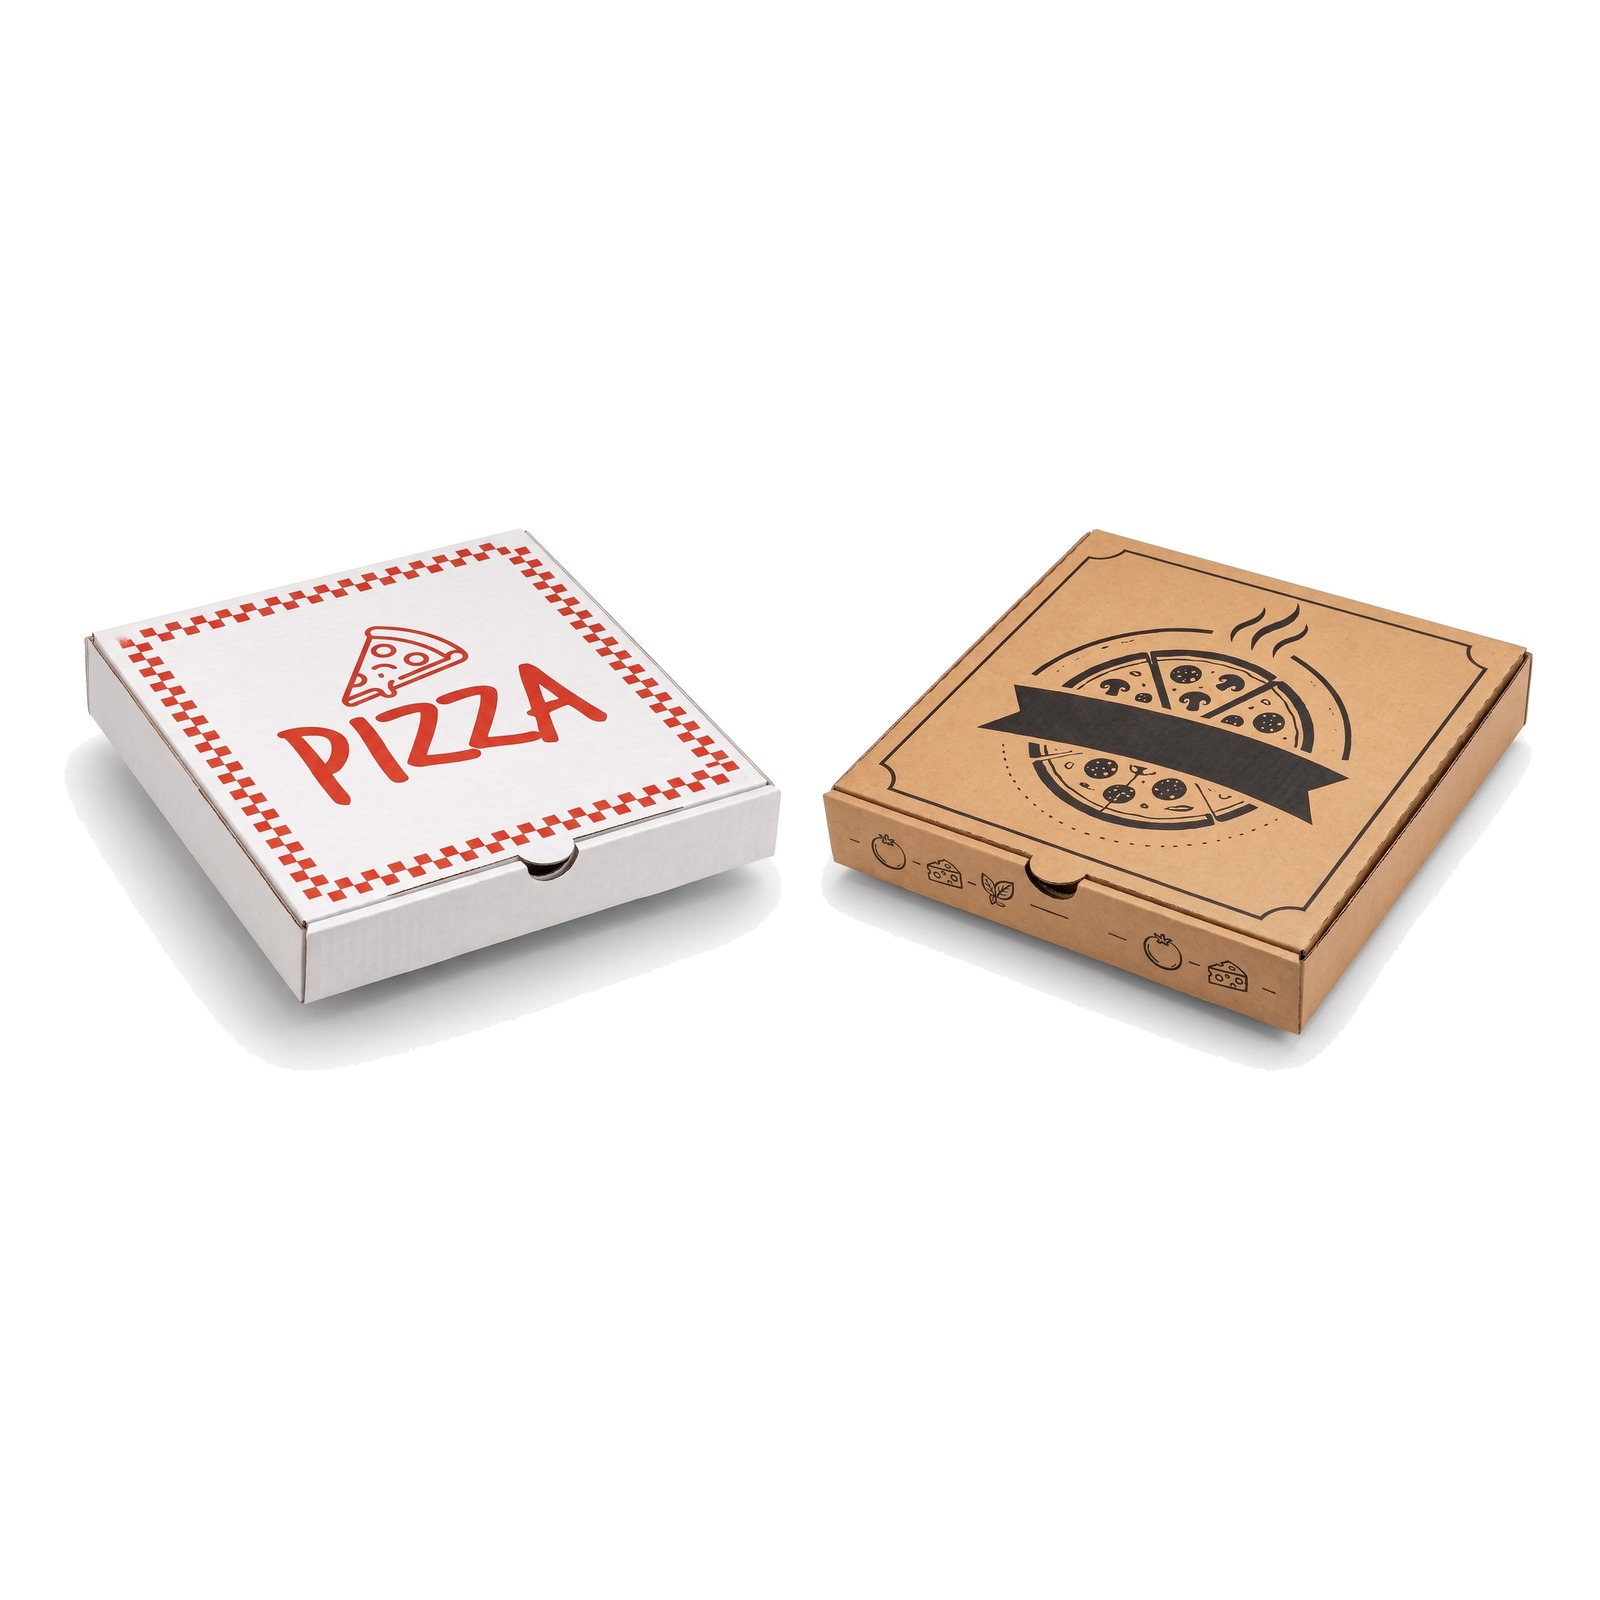
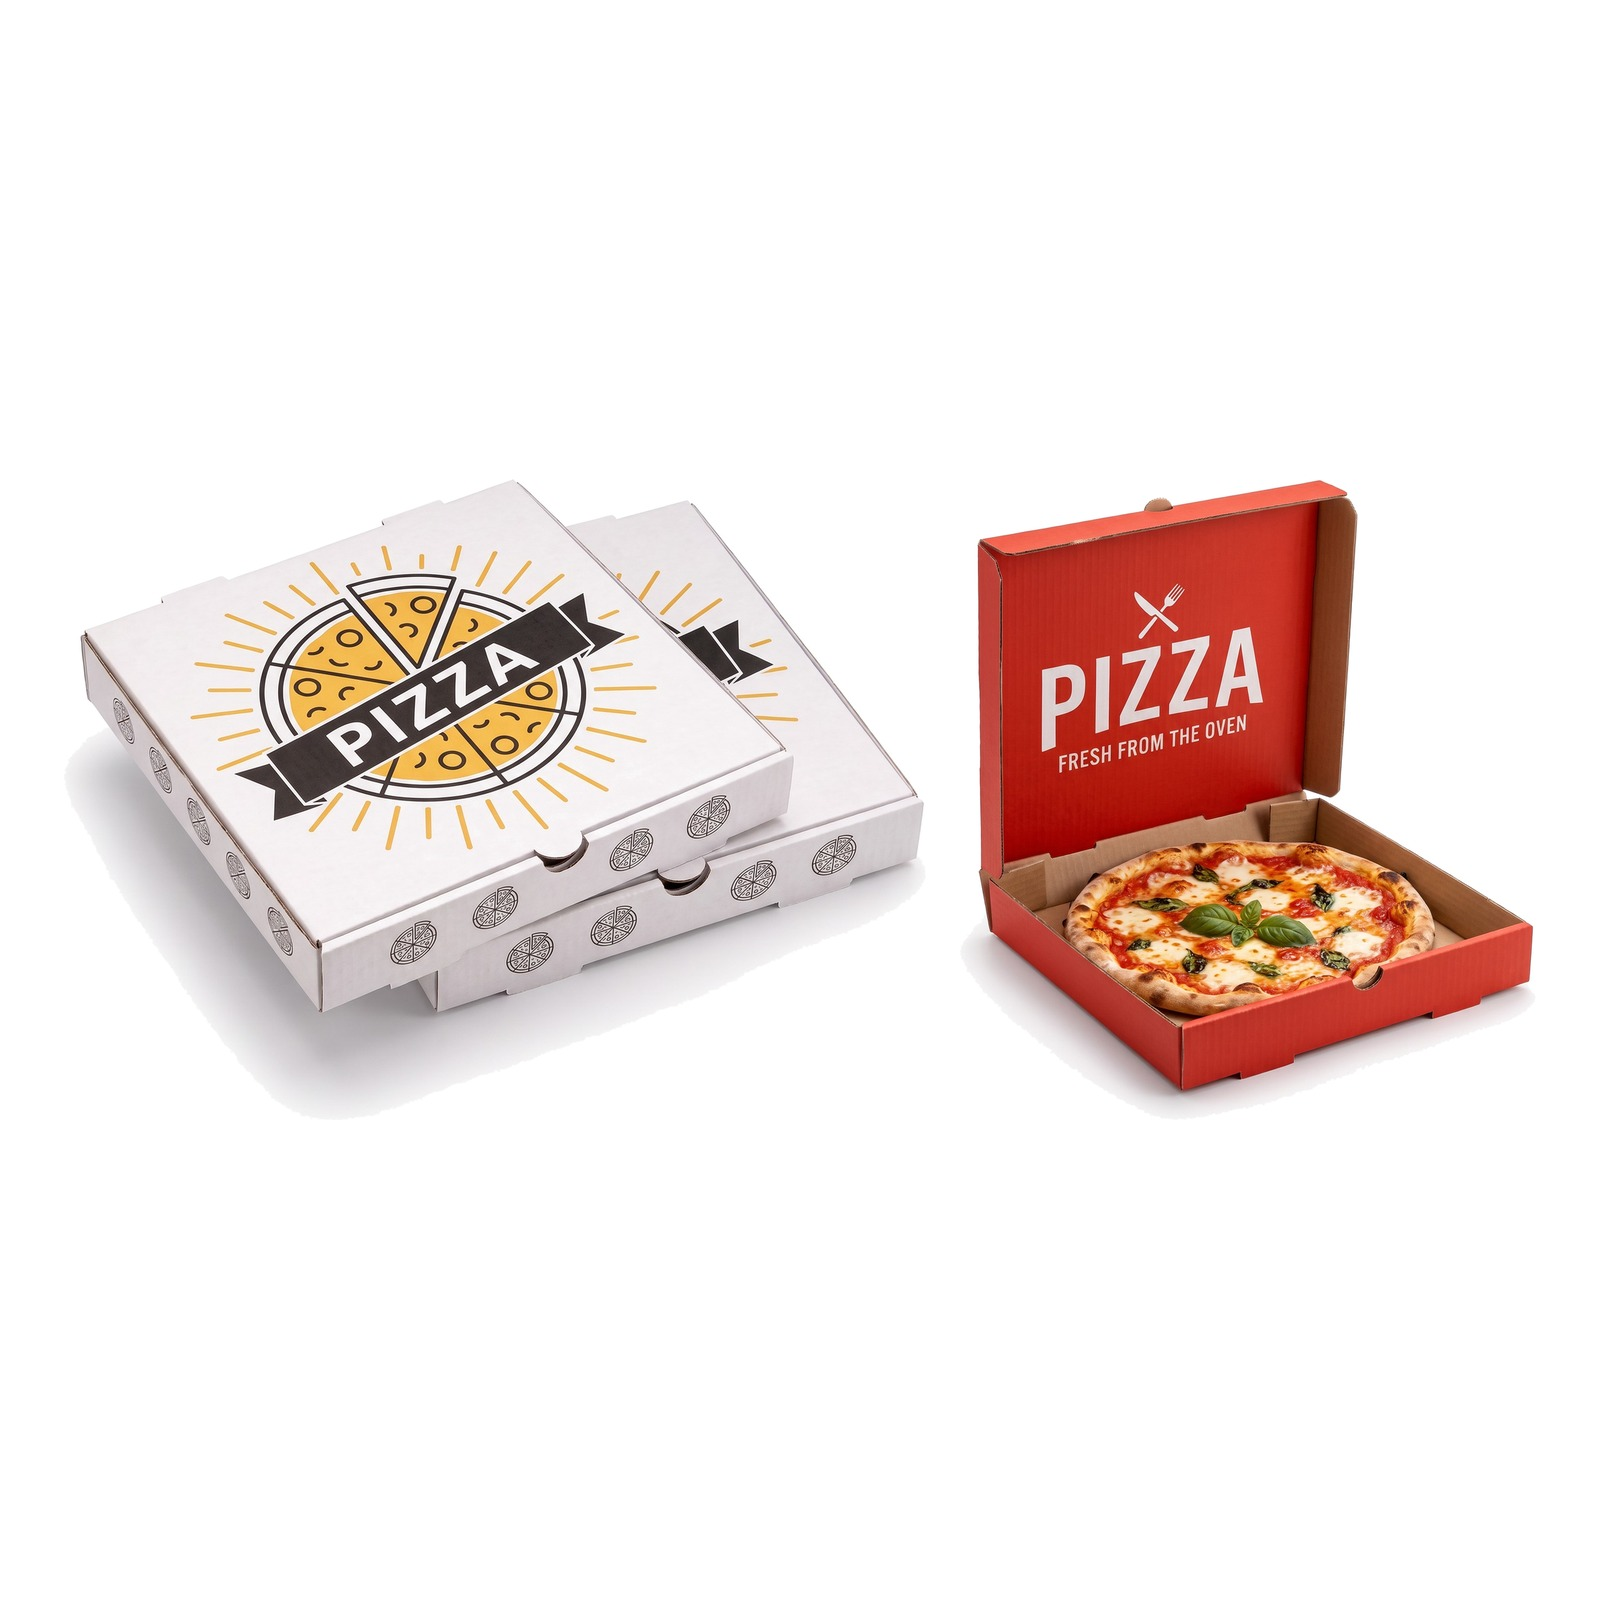
Pizzakartons: neue Bilder im Stil der Vorlagen des Inhabers (Zwischenstand)
Claude-Session: https://claude.ai/code/session_019HkPKDAwefi4jik8DbuM5U

Changed region(s): [[0.0312, 0.2812, 0.9688, 0.7188]]

diff --git a/produkte/pizzakartons/index.html b/produkte/pizzakartons/index.html
@@ -76,18 +76,14 @@
     <div class="pf-shot">
       <div class="pf-design-pick" data-designs>
       <div class="pf-designs" tabindex="0" role="region" aria-roledescription="Bildergalerie" aria-label="Echte Kundendesigns, zum Wechseln wischen">
-        <img class="pf-design is-on" src="/Bilder/web/pizzakarton-design-weiss-rot-960.webp" srcset="/Bilder/web/pizzakarton-design-weiss-rot-480.webp 480w, /Bilder/web/pizzakarton-design-weiss-rot-960.webp 960w" sizes="(max-width: 980px) 90vw, 560px" alt="Pizzakartons mit Logo im Design von Weiß, 1-farbig" width="960" height="960" draggable="false" fetchpriority="high">
-        <img class="pf-design" src="/Bilder/web/pizzakarton-design-braun-schwarz-960.webp" srcset="/Bilder/web/pizzakarton-design-braun-schwarz-480.webp 480w, /Bilder/web/pizzakarton-design-braun-schwarz-960.webp 960w" sizes="(max-width: 980px) 90vw, 560px" alt="Pizzakartons mit Logo im Design von Braun, 1-farbig" width="960" height="960" draggable="false" decoding="async">
-        <img class="pf-design" src="/Bilder/web/pizzakarton-design-weiss-rot-gruen-960.webp" srcset="/Bilder/web/pizzakarton-design-weiss-rot-gruen-480.webp 480w, /Bilder/web/pizzakarton-design-weiss-rot-gruen-960.webp 960w" sizes="(max-width: 980px) 90vw, 560px" alt="Pizzakartons mit Logo im Design von Weiß, 2-farbig" width="960" height="960" draggable="false" decoding="async">
-        <img class="pf-design" src="/Bilder/web/pizzakarton-design-braun-schwarz-rot-960.webp" srcset="/Bilder/web/pizzakarton-design-braun-schwarz-rot-480.webp 480w, /Bilder/web/pizzakarton-design-braun-schwarz-rot-960.webp 960w" sizes="(max-width: 980px) 90vw, 560px" alt="Pizzakartons mit Logo im Design von Braun, 2-farbig" width="960" height="960" draggable="false" decoding="async">
+        <img class="pf-design is-on" src="/Bilder/web/pizzakarton-design-gelb-schwarz-960.webp" srcset="/Bilder/web/pizzakarton-design-gelb-schwarz-480.webp 480w, /Bilder/web/pizzakarton-design-gelb-schwarz-960.webp 960w" sizes="(max-width: 980px) 90vw, 560px" alt="Pizzakartons mit Logo im Design von Weiß, 2-farbig" width="960" height="960" draggable="false" fetchpriority="high">
+        <img class="pf-design" src="/Bilder/web/pizzakarton-design-rot-offen-960.webp" srcset="/Bilder/web/pizzakarton-design-rot-offen-480.webp 480w, /Bilder/web/pizzakarton-design-rot-offen-960.webp 960w" sizes="(max-width: 980px) 90vw, 560px" alt="Pizzakartons mit Logo im Design von Rot, 1-farbig" width="960" height="960" draggable="false" decoding="async">
       </div>
       <div class="pf-swatches" role="group" aria-label="Kundendesign wählen">
-        <button type="button" class="pf-swatch is-on" style="--c:#D3322B" data-name="Weiß, 1-farbig" aria-pressed="true" aria-label="Design von Weiß, 1-farbig zeigen"></button>
-        <button type="button" class="pf-swatch" style="--c:#2B2B2B" data-name="Braun, 1-farbig" aria-pressed="false" aria-label="Design von Braun, 1-farbig zeigen"></button>
-        <button type="button" class="pf-swatch" style="--c:#2F6B3B" data-name="Weiß, 2-farbig" aria-pressed="false" aria-label="Design von Weiß, 2-farbig zeigen"></button>
-        <button type="button" class="pf-swatch" style="--c:#B88A5A" data-name="Braun, 2-farbig" aria-pressed="false" aria-label="Design von Braun, 2-farbig zeigen"></button>
+        <button type="button" class="pf-swatch is-on" style="--c:#F2B630" data-name="Weiß, 2-farbig" aria-pressed="true" aria-label="Design von Weiß, 2-farbig zeigen"></button>
+        <button type="button" class="pf-swatch" style="--c:#D9302C" data-name="Rot, 1-farbig" aria-pressed="false" aria-label="Design von Rot, 1-farbig zeigen"></button>
       </div>
-      <p class="pf-design-cap">Gestaltungsbeispiel: <b data-design-name aria-live="polite">Weiß, 1-farbig</b><span>Dein Pizzakarton bekommt dein Logo in deinen Farben.</span></p>
+      <p class="pf-design-cap">Gestaltungsbeispiel: <b data-design-name aria-live="polite">Weiß, 2-farbig</b><span>Dein Pizzakarton bekommt dein Logo in deinen Farben.</span></p>
       </div>
     </div>
   </div>
@@ -347,7 +343,7 @@
   </div>
 </div>
 
-<script type="application/json" id="pf-data">{"product":{"slug":"pizzakartons","url":"/produkte/pizzakartons/","name":"Pizzakartons mit Logo","image":"/Bilder/web/pizzakartons-karte-960.webp","unit":"Stück","qtyKey":"menge","catalog":{"title":"Pizzakartons","tags":["papierboxen"]},"badge":"Neu","branchen":["doener","bowls"],"related":["servietten","feuchttuecher","tueten","salatschalen"],"options":[{"key":"groesse","label":"Größe","choices":[{"id":"20x20","label":"20 × 20 cm","detail":"Höhe 4 cm"},{"id":"24x24","label":"24 × 24 cm","detail":"Höhe ca. 3,5–4 cm"},{"id":"26x26","label":"26 × 26 cm","detail":"Höhe ca. 3,5–4 cm"},{"id":"28x28","label":"28 × 28 cm","detail":"Höhe 4 cm"},{"id":"30x30","label":"30 × 30 cm","detail":"Höhe 4 cm"},{"id":"32x32","label":"32 × 32 cm","detail":"Höhe 4 cm"},{"id":"34x34","label":"34 × 34 cm","detail":"Höhe 4 cm"},{"id":"36x36","label":"36 × 36 cm","detail":"Höhe 4 cm"},{"id":"40x40","label":"40 × 40 cm","detail":"Höhe 4 cm"},{"id":"42x42","label":"42 × 42 cm","detail":"Höhe 4 cm"},{"id":"45x45","label":"45 × 45 cm","detail":"Höhe 4 cm"},{"id":"50x50","label":"50 × 50 cm","detail":"Höhe 5 cm"}],"note":"Weitere Maße und Sonderhöhen auf Anfrage"},{"key":"druck","label":"Druck","choices":[{"id":"1","label":"1-farbig","detail":"Flexodruck"},{"id":"2","label":"2-farbig","detail":"Flexodruck"}],"note":"Karton weiß oder braun – die genaue Ausführung bestätigen wir vor dem Auftrag"},{"key":"menge","label":"Menge","choices":[{"id":"1000","label":"1.000 Stück"},{"id":"3000","label":"3.000 Stück"},{"id":"5000","label":"5.000 Stück","tip":true},{"id":"10000","label":"10.000 Stück"}],"note":"Größere Mengen auf Anfrage · einmalige Klischeekosten je nach Motiv separat"}],"pricing":{"basis":"unit","by":["groesse","druck","menge"],"table":{"20x20":{"1":{"1000":4800,"3000":2780,"5000":2380,"10000":2210},"2":{"1000":5210,"3000":3190,"5000":2790,"10000":2620}},"24x24":{"1":{"1000":4780,"3000":2780,"5000":2430,"10000":2250},"2":{"1000":5370,"3000":2980,"5000":2630,"10000":2450}},"26x26":{"1":{"1000":4820,"3000":2820,"5000":2470,"10000":2320},"2":{"1000":5440,"3000":3020,"5000":2670,"10000":2520}},"28x28":{"1":{"1000":5210,"3000":3150,"5000":2800,"10000":2650},"2":{"1000":5620,"3000":3560,"5000":3210,"10000":3060}},"30x30":{"1":{"1000":4940,"3000":2940,"5000":2640,"10000":2460},"2":{"1000":5780,"3000":3140,"5000":2840,"10000":2660}},"32x32":{"1":{"1000":5020,"3000":3020,"5000":2720,"10000":2540},"2":{"1000":5850,"3000":3220,"5000":2920,"10000":2740}},"34x34":{"1":{"1000":5210,"3000":3210,"5000":2910,"10000":2760},"2":{"1000":6010,"3000":3410,"5000":3110,"10000":2960}},"36x36":{"1":{"1000":5300,"3000":3300,"5000":3050,"10000":2880},"2":{"1000":6190,"3000":3500,"5000":3250,"10000":3080}},"40x40":{"1":{"1000":5700,"3000":4110,"5000":3840,"10000":3690},"2":{"1000":6450,"3000":4490,"5000":4200,"10000":4050}},"42x42":{"1":{"1000":6220,"3000":4380,"5000":4080,"10000":3900},"2":{"1000":6630,"3000":4790,"5000":4490,"10000":4310}},"45x45":{"1":{"1000":6240,"3000":4700,"5000":4450,"10000":4270},"2":{"1000":6970,"3000":4940,"5000":4690,"10000":4540}},"50x50":{"1":{"1000":7040,"3000":5230,"5000":4950,"10000":4800},"2":{"1000":7450,"3000":5650,"5000":5360,"10000":5210}}},"qty":{"by":"menge"}},"rechner":{"frage":"Wie viele Pizzen verkaufst du am Tag?","start":60},"designs":{"wort":"Pizzakarton","artikel":"Dein","titel":"Gestaltungsbeispiel","bilder":[{"file":"pizzakarton-design-weiss-rot","name":"Weiß, 1-farbig","color":"#D3322B"},{"file":"pizzakarton-design-braun-schwarz","name":"Braun, 1-farbig","color":"#2B2B2B"},{"file":"pizzakarton-design-weiss-rot-gruen","name":"Weiß, 2-farbig","color":"#2F6B3B"},{"file":"pizzakarton-design-braun-schwarz-rot","name":"Braun, 2-farbig","color":"#B88A5A"}]}},"catalog":[{"slug":"tueten","url":"/produkte/tueten/","title":"Papiertüten","img":"/Bilder/web/tueten-karte-480.webp","from":"ab 12,00 ct"},{"slug":"sleeves","url":"/produkte/sleeves/","title":"Kaffeebecher Sleeves","img":"/Bilder/web/sleeves-shop-480.webp","from":"ab 2,59 ct"},{"slug":"burgerbox","url":"/produkte/burgerbox/","title":"Burgerbox","img":"/Bilder/web/burgerbox-karte-480.webp","from":"ab 11,50 ct"},{"slug":"pizzakartons","url":"/produkte/pizzakartons/","title":"Pizzakartons","img":"/Bilder/web/pizzakartons-karte-480.webp","from":"ab 22,10 ct"},{"slug":"einschlagpapier","url":"/produkte/einschlagpapier/","title":"Einschlagpapier","img":"/Bilder/web/tablettpapier-480.webp","from":"ab 5,20 €/kg"},{"slug":"broetchentueten","url":"/produkte/broetchentueten/","title":"Brötchentüten","img":"/Bilder/web/broetchentueten-480.webp","from":"ab 4,68 €/kg"},{"slug":"doenertueten","url":"/produkte/doenertueten/","title":"Dönertüten","img":"/Bilder/web/doenertueten-480.webp","from":"ab 5,20 €/kg"},{"slug":"kuru-pasta","url":"/produkte/kuru-pasta/","title":"Kuru Pasta Kutusu","img":"/Bilder/web/kurupasta-480.webp","from":"ab 11,10 ct"},{"slug":"salatschalen","url":"/produkte/salatschalen/","title":"Salatschalen","img":"/Bilder/web/salatschalen-karte-480.webp","from":"ab 14,15 ct"},{"slug":"baklava-kutusu","url":"/produkte/baklava-kutusu/","title":"Baklava Kutusu","img":"/Bilder/web/baklava-480.webp","from":"ab 8,10 ct"},{"slug":"kuchenboxen","url":"/produkte/kuchenboxen/","title":"Kuchenboxen","img":"/Bilder/web/kuchenbox-480.webp","from":"ab 16,00 ct"},{"slug":"pommesschuetten","url":"/produkte/pommesschuetten/","title":"Pommesschütten","img":"/Bilder/web/pommes-480.webp","from":"ab 5,92 ct"},{"slug":"fc-box","url":"/produkte/fc-box/","title":"FC Box","img":"/Bilder/web/fcbox-480.webp","from":"ab 9,20 ct"},{"slug":"doenerboxen","url":"/produkte/doenerboxen/","title":"Dönerboxen","img":"/Bilder/web/doenerboxen-karte-480.webp","from":"ab 8,29 ct"},{"slug":"takeaway-boxen","url":"/produkte/takeaway-boxen/","title":"Take-away Boxen","img":"/Bilder/web/takeawaybox-480.webp","from":"ab 15,81 ct"},{"slug":"kaffeebecher-single-wall","url":"/produkte/kaffeebecher-single-wall/","title":"Kaffeebecher Single Wall","img":"/Bilder/web/kaffeebecher-sw-480.webp","from":"ab 6,67 ct"},{"slug":"kaffeebecher-double-wall","url":"/produkte/kaffeebecher-double-wall/","title":"Kaffeebecher Double Wall","img":"/Bilder/web/kaffeebecher-dw-480.webp","from":"ab 10,15 ct"},{"slug":"clear-cups","url":"/produkte/clear-cups/","title":"Clear Cups","img":"/Bilder/web/clear-cups-480.webp","from":"ab 13,50 ct"},{"slug":"bubble-tea-cups","url":"/produkte/bubble-tea-cups/","title":"Bubble Tea Cups","img":"/Bilder/web/bubble-tea-cups-480.webp","from":"ab 17,30 ct"},{"slug":"servietten","url":"/produkte/servietten/","title":"Servietten mit Logo","img":"/Bilder/web/servietten-480.webp","from":"ab 1,95 ct"},{"slug":"feuchttuecher","url":"/produkte/feuchttuecher/","title":"Feuchttücher","img":"/Bilder/web/feuchttuecher-480.webp","from":"ab 2,90 ct"}]}</script>
+<script type="application/json" id="pf-data">{"product":{"slug":"pizzakartons","url":"/produkte/pizzakartons/","name":"Pizzakartons mit Logo","image":"/Bilder/web/pizzakartons-karte-960.webp","unit":"Stück","qtyKey":"menge","catalog":{"title":"Pizzakartons","tags":["papierboxen"]},"badge":"Neu","branchen":["doener","bowls"],"related":["servietten","feuchttuecher","tueten","salatschalen"],"options":[{"key":"groesse","label":"Größe","choices":[{"id":"20x20","label":"20 × 20 cm","detail":"Höhe 4 cm"},{"id":"24x24","label":"24 × 24 cm","detail":"Höhe ca. 3,5–4 cm"},{"id":"26x26","label":"26 × 26 cm","detail":"Höhe ca. 3,5–4 cm"},{"id":"28x28","label":"28 × 28 cm","detail":"Höhe 4 cm"},{"id":"30x30","label":"30 × 30 cm","detail":"Höhe 4 cm"},{"id":"32x32","label":"32 × 32 cm","detail":"Höhe 4 cm"},{"id":"34x34","label":"34 × 34 cm","detail":"Höhe 4 cm"},{"id":"36x36","label":"36 × 36 cm","detail":"Höhe 4 cm"},{"id":"40x40","label":"40 × 40 cm","detail":"Höhe 4 cm"},{"id":"42x42","label":"42 × 42 cm","detail":"Höhe 4 cm"},{"id":"45x45","label":"45 × 45 cm","detail":"Höhe 4 cm"},{"id":"50x50","label":"50 × 50 cm","detail":"Höhe 5 cm"}],"note":"Weitere Maße und Sonderhöhen auf Anfrage"},{"key":"druck","label":"Druck","choices":[{"id":"1","label":"1-farbig","detail":"Flexodruck"},{"id":"2","label":"2-farbig","detail":"Flexodruck"}],"note":"Karton weiß oder braun – die genaue Ausführung bestätigen wir vor dem Auftrag"},{"key":"menge","label":"Menge","choices":[{"id":"1000","label":"1.000 Stück"},{"id":"3000","label":"3.000 Stück"},{"id":"5000","label":"5.000 Stück","tip":true},{"id":"10000","label":"10.000 Stück"}],"note":"Größere Mengen auf Anfrage · einmalige Klischeekosten je nach Motiv separat"}],"pricing":{"basis":"unit","by":["groesse","druck","menge"],"table":{"20x20":{"1":{"1000":4800,"3000":2780,"5000":2380,"10000":2210},"2":{"1000":5210,"3000":3190,"5000":2790,"10000":2620}},"24x24":{"1":{"1000":4780,"3000":2780,"5000":2430,"10000":2250},"2":{"1000":5370,"3000":2980,"5000":2630,"10000":2450}},"26x26":{"1":{"1000":4820,"3000":2820,"5000":2470,"10000":2320},"2":{"1000":5440,"3000":3020,"5000":2670,"10000":2520}},"28x28":{"1":{"1000":5210,"3000":3150,"5000":2800,"10000":2650},"2":{"1000":5620,"3000":3560,"5000":3210,"10000":3060}},"30x30":{"1":{"1000":4940,"3000":2940,"5000":2640,"10000":2460},"2":{"1000":5780,"3000":3140,"5000":2840,"10000":2660}},"32x32":{"1":{"1000":5020,"3000":3020,"5000":2720,"10000":2540},"2":{"1000":5850,"3000":3220,"5000":2920,"10000":2740}},"34x34":{"1":{"1000":5210,"3000":3210,"5000":2910,"10000":2760},"2":{"1000":6010,"3000":3410,"5000":3110,"10000":2960}},"36x36":{"1":{"1000":5300,"3000":3300,"5000":3050,"10000":2880},"2":{"1000":6190,"3000":3500,"5000":3250,"10000":3080}},"40x40":{"1":{"1000":5700,"3000":4110,"5000":3840,"10000":3690},"2":{"1000":6450,"3000":4490,"5000":4200,"10000":4050}},"42x42":{"1":{"1000":6220,"3000":4380,"5000":4080,"10000":3900},"2":{"1000":6630,"3000":4790,"5000":4490,"10000":4310}},"45x45":{"1":{"1000":6240,"3000":4700,"5000":4450,"10000":4270},"2":{"1000":6970,"3000":4940,"5000":4690,"10000":4540}},"50x50":{"1":{"1000":7040,"3000":5230,"5000":4950,"10000":4800},"2":{"1000":7450,"3000":5650,"5000":5360,"10000":5210}}},"qty":{"by":"menge"}},"rechner":{"frage":"Wie viele Pizzen verkaufst du am Tag?","start":60},"designs":{"wort":"Pizzakarton","artikel":"Dein","titel":"Gestaltungsbeispiel","bilder":[{"file":"pizzakarton-design-gelb-schwarz","name":"Weiß, 2-farbig","color":"#F2B630"},{"file":"pizzakarton-design-rot-offen","name":"Rot, 1-farbig","color":"#D9302C"}]}},"catalog":[{"slug":"tueten","url":"/produkte/tueten/","title":"Papiertüten","img":"/Bilder/web/tueten-karte-480.webp","from":"ab 12,00 ct"},{"slug":"sleeves","url":"/produkte/sleeves/","title":"Kaffeebecher Sleeves","img":"/Bilder/web/sleeves-shop-480.webp","from":"ab 2,59 ct"},{"slug":"burgerbox","url":"/produkte/burgerbox/","title":"Burgerbox","img":"/Bilder/web/burgerbox-karte-480.webp","from":"ab 11,50 ct"},{"slug":"pizzakartons","url":"/produkte/pizzakartons/","title":"Pizzakartons","img":"/Bilder/web/pizzakartons-karte-480.webp","from":"ab 22,10 ct"},{"slug":"einschlagpapier","url":"/produkte/einschlagpapier/","title":"Einschlagpapier","img":"/Bilder/web/tablettpapier-480.webp","from":"ab 5,20 €/kg"},{"slug":"broetchentueten","url":"/produkte/broetchentueten/","title":"Brötchentüten","img":"/Bilder/web/broetchentueten-480.webp","from":"ab 4,68 €/kg"},{"slug":"doenertueten","url":"/produkte/doenertueten/","title":"Dönertüten","img":"/Bilder/web/doenertueten-480.webp","from":"ab 5,20 €/kg"},{"slug":"kuru-pasta","url":"/produkte/kuru-pasta/","title":"Kuru Pasta Kutusu","img":"/Bilder/web/kurupasta-480.webp","from":"ab 11,10 ct"},{"slug":"salatschalen","url":"/produkte/salatschalen/","title":"Salatschalen","img":"/Bilder/web/salatschalen-karte-480.webp","from":"ab 14,15 ct"},{"slug":"baklava-kutusu","url":"/produkte/baklava-kutusu/","title":"Baklava Kutusu","img":"/Bilder/web/baklava-480.webp","from":"ab 8,10 ct"},{"slug":"kuchenboxen","url":"/produkte/kuchenboxen/","title":"Kuchenboxen","img":"/Bilder/web/kuchenbox-480.webp","from":"ab 16,00 ct"},{"slug":"pommesschuetten","url":"/produkte/pommesschuetten/","title":"Pommesschütten","img":"/Bilder/web/pommes-480.webp","from":"ab 5,92 ct"},{"slug":"fc-box","url":"/produkte/fc-box/","title":"FC Box","img":"/Bilder/web/fcbox-480.webp","from":"ab 9,20 ct"},{"slug":"doenerboxen","url":"/produkte/doenerboxen/","title":"Dönerboxen","img":"/Bilder/web/doenerboxen-karte-480.webp","from":"ab 8,29 ct"},{"slug":"takeaway-boxen","url":"/produkte/takeaway-boxen/","title":"Take-away Boxen","img":"/Bilder/web/takeawaybox-480.webp","from":"ab 15,81 ct"},{"slug":"kaffeebecher-single-wall","url":"/produkte/kaffeebecher-single-wall/","title":"Kaffeebecher Single Wall","img":"/Bilder/web/kaffeebecher-sw-480.webp","from":"ab 6,67 ct"},{"slug":"kaffeebecher-double-wall","url":"/produkte/kaffeebecher-double-wall/","title":"Kaffeebecher Double Wall","img":"/Bilder/web/kaffeebecher-dw-480.webp","from":"ab 10,15 ct"},{"slug":"clear-cups","url":"/produkte/clear-cups/","title":"Clear Cups","img":"/Bilder/web/clear-cups-480.webp","from":"ab 13,50 ct"},{"slug":"bubble-tea-cups","url":"/produkte/bubble-tea-cups/","title":"Bubble Tea Cups","img":"/Bilder/web/bubble-tea-cups-480.webp","from":"ab 17,30 ct"},{"slug":"servietten","url":"/produkte/servietten/","title":"Servietten mit Logo","img":"/Bilder/web/servietten-480.webp","from":"ab 1,95 ct"},{"slug":"feuchttuecher","url":"/produkte/feuchttuecher/","title":"Feuchttücher","img":"/Bilder/web/feuchttuecher-480.webp","from":"ab 2,90 ct"}]}</script>
 <script src="/assets/pf-site.js?v=08656d3e"></script>
 <script src="/assets/pf-pricing.js?v=77e49935"></script>
 <script src="/assets/pf-view.js?v=14f50606"></script>
